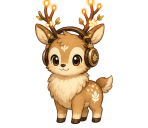
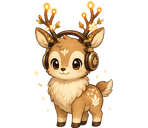
front1.3

diff --git a/DyberPet-main/frontend/state_mapper.py b/DyberPet-main/frontend/state_mapper.py
@@ -15,10 +15,12 @@ DEFAULT_BUBBLES = {
 
 STATE_ACTION_CANDIDATES = {
     "idle": ["default", "stand"],
-    "focus": ["focus", "default", "stand"],
-    "tired": ["sleep", "fall_asleep", "default", "stand"],
-    "frustrated": ["angry", "onfloor", "default", "stand"],
-    "sad": ["sleep", "onfloor", "default", "stand"],
+    # EchoDeer currently ships a smaller action set than the original DyberPet
+    # defaults, so keep visible fallbacks here for API mode and debug mode.
+    "focus": ["focus", "lazy", "default", "stand"],
+    "tired": ["sleep", "fall_asleep", "lazy", "sad", "default", "stand"],
+    "frustrated": ["angry", "sad", "onfloor", "default", "stand"],
+    "sad": ["sad", "sleep", "onfloor", "default", "stand"],
 }
 
 EMOTION_TO_STATE = {
